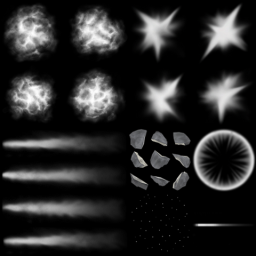
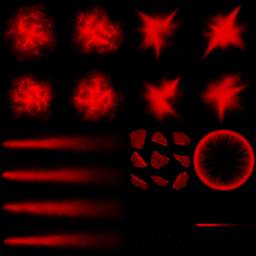
Got the explosion particle pretty much working.

diff --git a/src/framework/vertex_formats.cc b/src/framework/vertex_formats.cc
@@ -13,7 +13,8 @@ namespace vertex {
   reinterpret_cast<void const *>(offsetof(struct, member))
 
 static void xyz_setup() {
-  FW_CHECKED(glVertexPointer(3, GL_FLOAT, sizeof(xyz), OFFSET_OF(xyz, x)));
+  FW_CHECKED(glEnableVertexAttribArray(0));
+  FW_CHECKED(glVertexAttribPointer(0, 3, GL_FLOAT, GL_FALSE, sizeof(fw::vertex::xyz), OFFSET_OF(xyz, x)));
 }
 
 std::function<void()> xyz::get_setup_function() {
@@ -21,8 +22,10 @@ std::function<void()> xyz::get_setup_function() {
 }
 
 static void xyz_c_setup() {
-  FW_CHECKED(glVertexPointer(3, GL_FLOAT, sizeof(xyz_c), OFFSET_OF(xyz_c, x)));
-  FW_CHECKED(glColorPointer(4, GL_UNSIGNED_BYTE, sizeof(xyz_c), OFFSET_OF(xyz_c, colour)));
+  FW_CHECKED(glEnableVertexAttribArray(0));
+  FW_CHECKED(glEnableVertexAttribArray(1));
+  FW_CHECKED(glVertexAttribPointer(0, 3, GL_FLOAT, GL_FALSE, sizeof(fw::vertex::xyz_c), OFFSET_OF(xyz_c, x)));
+  FW_CHECKED(glVertexAttribPointer(1, 4, GL_UNSIGNED_BYTE, GL_FALSE, sizeof(fw::vertex::xyz_c), OFFSET_OF(xyz_c, colour)));
 }
 
 std::function<void()> xyz_c::get_setup_function() {
@@ -45,7 +48,7 @@ void xyz_c_uv_setup() {
   FW_CHECKED(glEnableVertexAttribArray(1));
   FW_CHECKED(glEnableVertexAttribArray(2));
   FW_CHECKED(glVertexAttribPointer(0, 3, GL_FLOAT, GL_FALSE, sizeof(fw::vertex::xyz_c_uv), OFFSET_OF(xyz_c_uv, x)));
-  FW_CHECKED(glVertexAttribPointer(1, 4, GL_UNSIGNED_BYTE, GL_FALSE, sizeof(fw::vertex::xyz_c_uv), OFFSET_OF(xyz_c_uv, colour)));
+  FW_CHECKED(glVertexAttribPointer(1, 4, GL_UNSIGNED_BYTE, GL_TRUE, sizeof(fw::vertex::xyz_c_uv), OFFSET_OF(xyz_c_uv, colour)));
   FW_CHECKED(glVertexAttribPointer(2, 2, GL_FLOAT, GL_FALSE, sizeof(fw::vertex::xyz_c_uv), OFFSET_OF(xyz_c_uv, u)));
 }
 
@@ -54,10 +57,12 @@ std::function<void()> xyz_c_uv::get_setup_function() {
 }
 
 void xyz_n_uv_setup() {
-  FW_CHECKED(glVertexPointer(3, GL_FLOAT, sizeof(xyz_n_uv), OFFSET_OF(xyz_n_uv, x)));
-  FW_CHECKED(glNormalPointer(GL_FLOAT, sizeof(xyz_n_uv), OFFSET_OF(xyz_n_uv, nx)));
-  FW_CHECKED(glClientActiveTexture(GL_TEXTURE0));
-  FW_CHECKED(glTexCoordPointer(2, GL_FLOAT, sizeof(xyz_n_uv), OFFSET_OF(xyz_n_uv, u)));
+  FW_CHECKED(glEnableVertexAttribArray(0));
+  FW_CHECKED(glEnableVertexAttribArray(1));
+  FW_CHECKED(glEnableVertexAttribArray(2));
+  FW_CHECKED(glVertexAttribPointer(0, 3, GL_FLOAT, GL_FALSE, sizeof(fw::vertex::xyz_n_uv), OFFSET_OF(xyz_n_uv, x)));
+  FW_CHECKED(glVertexAttribPointer(1, 3, GL_FLOAT, GL_FALSE, sizeof(fw::vertex::xyz_n_uv), OFFSET_OF(xyz_n_uv, nx)));
+  FW_CHECKED(glVertexAttribPointer(2, 2, GL_FLOAT, GL_FALSE, sizeof(fw::vertex::xyz_n_uv), OFFSET_OF(xyz_n_uv, u)));
 }
 
 std::function<void()> xyz_n_uv::get_setup_function() {

diff --git a/src/framework/particle_renderer.cc b/src/framework/particle_renderer.cc
@@ -211,13 +211,13 @@ bool particle_renderer::add_particle(render_state &rs, int base_index, particle 
   float aspect = (p->rect.bottom - p->rect.top) / (p->rect.right - p->rect.left);
 
   fw::vector v = cml::transform_point(m, fw::vector(-0.5f, -0.5f * aspect, 0));
-  rs.vertices.push_back(fw::vertex::xyz_c_uv(v[0], v[1], v[2], colour.to_rgba(), p->rect.left, p->rect.bottom));
+  rs.vertices.push_back(fw::vertex::xyz_c_uv(v[0], v[1], v[2], colour.to_abgr(), p->rect.left, p->rect.bottom));
   v = cml::transform_point(m, fw::vector(-0.5f, 0.5f * aspect, 0));
-  rs.vertices.push_back(fw::vertex::xyz_c_uv(v[0], v[1], v[2], colour.to_rgba(), p->rect.left, p->rect.top));
+  rs.vertices.push_back(fw::vertex::xyz_c_uv(v[0], v[1], v[2], colour.to_abgr(), p->rect.left, p->rect.top));
   v = cml::transform_point(m, fw::vector(0.5f, 0.5f * aspect, 0));
-  rs.vertices.push_back(fw::vertex::xyz_c_uv(v[0], v[1], v[2], colour.to_rgba(), p->rect.right, p->rect.top));
+  rs.vertices.push_back(fw::vertex::xyz_c_uv(v[0], v[1], v[2], colour.to_abgr(), p->rect.right, p->rect.top));
   v = cml::transform_point(m, fw::vector(0.5f, -0.5f * aspect, 0));
-  rs.vertices.push_back(fw::vertex::xyz_c_uv(v[0], v[1], v[2], colour.to_rgba(), p->rect.right, p->rect.bottom));
+  rs.vertices.push_back(fw::vertex::xyz_c_uv(v[0], v[1], v[2], colour.to_abgr(), p->rect.right, p->rect.bottom));
 
   rs.indices.push_back(base_index);
   rs.indices.push_back(base_index + 1);

diff --git a/src/framework/scenegraph.cc b/src/framework/scenegraph.cc
@@ -181,12 +181,20 @@ std::shared_ptr<node> node::clone() {
   return clone;
 }
 
+//-----------------------------------------------------------------------------------------
+
+scenegraph::scenegraph()
+    : _clear_colour(fw::colour(1, 0, 0, 0)) {
+}
+
+scenegraph::~scenegraph() {
+}
+
 }
 
 //-----------------------------------------------------------------------------------------
 // renders the scene!
-void render(sg::scenegraph &scenegraph, fw::texture *render_target /*= 0*/,
-    fw::colour clear_colour /*= fw::colour(1, 0, 0, 0)*/) {
+void render(sg::scenegraph &scenegraph, fw::texture *render_target /*= nullptr*/) {
   ensure_primitive_type_map();
 
   graphics *g = fw::framework::get_instance()->get_graphics();
@@ -235,7 +243,7 @@ void render(sg::scenegraph &scenegraph, fw::texture *render_target /*= 0*/,
 //		is_rendering_shadow = false;
 
   // now, render the main scene
-  g->begin_scene(clear_colour);
+  g->begin_scene(scenegraph.get_clear_colour());
   BOOST_FOREACH(std::shared_ptr<fw::sg::node> node, scenegraph.get_nodes()) {
     node->render(&scenegraph);
   }

diff --git a/include/framework/scenegraph.h b/include/framework/scenegraph.h
@@ -2,8 +2,8 @@
 
 #include <memory>
 
-#include "vector.h"
-#include "colour.h"
+#include <framework/vector.h>
+#include <framework/colour.h>
 
 namespace fw {
 
@@ -163,8 +163,12 @@ public:
 private:
   light_coll _lights;
   node_coll _root_nodes;
+  fw::colour _clear_colour;
 
 public:
+  scenegraph();
+  ~scenegraph();
+
   // add a light to the scene. the pointer must be valid for the
   void add_light(std::shared_ptr<light> &l) {
     _lights.push_back(l);
@@ -179,9 +183,15 @@ public:
   node_coll const &get_nodes() const {
     return _root_nodes;
   }
+
+  void set_clear_colour(fw::colour colour) {
+    _clear_colour = colour;
+  }
+  fw::colour get_clear_colour() const {
+    return _clear_colour;
+  }
 };
 }
 
-void render(fw::sg::scenegraph &sg, fw::texture *render_target = 0,
-    fw::colour clear_colour = fw::colour(1, 0, 0, 0));
+void render(fw::sg::scenegraph &sg, fw::texture *render_target = nullptr);
 }

diff --git a/src/framework/shader.cc b/src/framework/shader.cc
@@ -103,10 +103,10 @@ void shader_parameters::apply(shader *e) const {
   for (auto it = _textures.begin(); it != _textures.end(); ++it) {
     shader_variable const &var = e->_shader_variables[it->first];
     if (var.valid) {
-      glActiveTexture(GL_TEXTURE0 + texture_unit);
+      FW_CHECKED(glActiveTexture(GL_TEXTURE0 + texture_unit));
       std::shared_ptr<fw::texture> texture = it->second;
       texture->bind();
-      FW_CHECKED(glUniform1i(var.location, 0));
+      FW_CHECKED(glUniform1i(var.location, texture_unit));
       texture_unit ++;
     }
   }

diff --git a/src/particle-test/main.cc b/src/particle-test/main.cc
@@ -6,6 +6,7 @@
 #include <framework/camera.h>
 #include <framework/settings.h>
 #include <framework/framework.h>
+#include <framework/graphics.h>
 #include <framework/font.h>
 #include <framework/gui/gui.h>
 #include <framework/gui/builder.h>
@@ -81,6 +82,9 @@ void application::update(float dt) {
 }
 
 void application::render(fw::sg::scenegraph &scenegraph) {
+  scenegraph.set_clear_colour(fw::colour(1, 0, 0.0, 0));
+  glEnable(GL_BLEND);
+  glBlendFunc(GL_SRC_ALPHA, GL_ONE);
 }
 
 //-----------------------------------------------------------------------------

diff --git a/src/framework/texture.cc b/src/framework/texture.cc
@@ -114,7 +114,6 @@ void texture::create(fw::bitmap const &bmp, bool dynamic) {
 
 void texture::bind() {
   FW_CHECKED(glBindTexture(GL_TEXTURE_2D, _data->texture_id));
-  FW_CHECKED(glActiveTexture(GL_TEXTURE0));
   FW_CHECKED(glTexParameterf(GL_TEXTURE_2D, GL_TEXTURE_MIN_FILTER, GL_LINEAR));
   FW_CHECKED(glTexParameterf(GL_TEXTURE_2D, GL_TEXTURE_MAG_FILTER, GL_LINEAR));
 }
